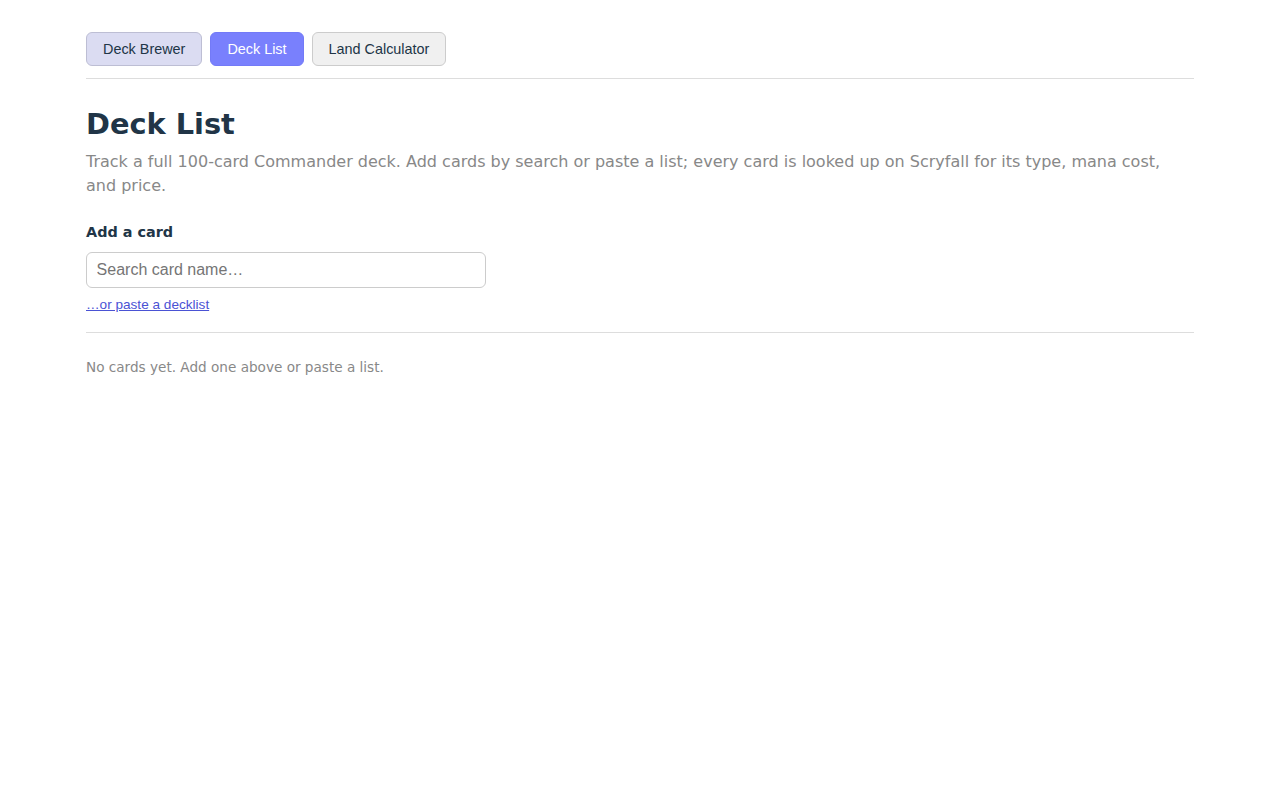
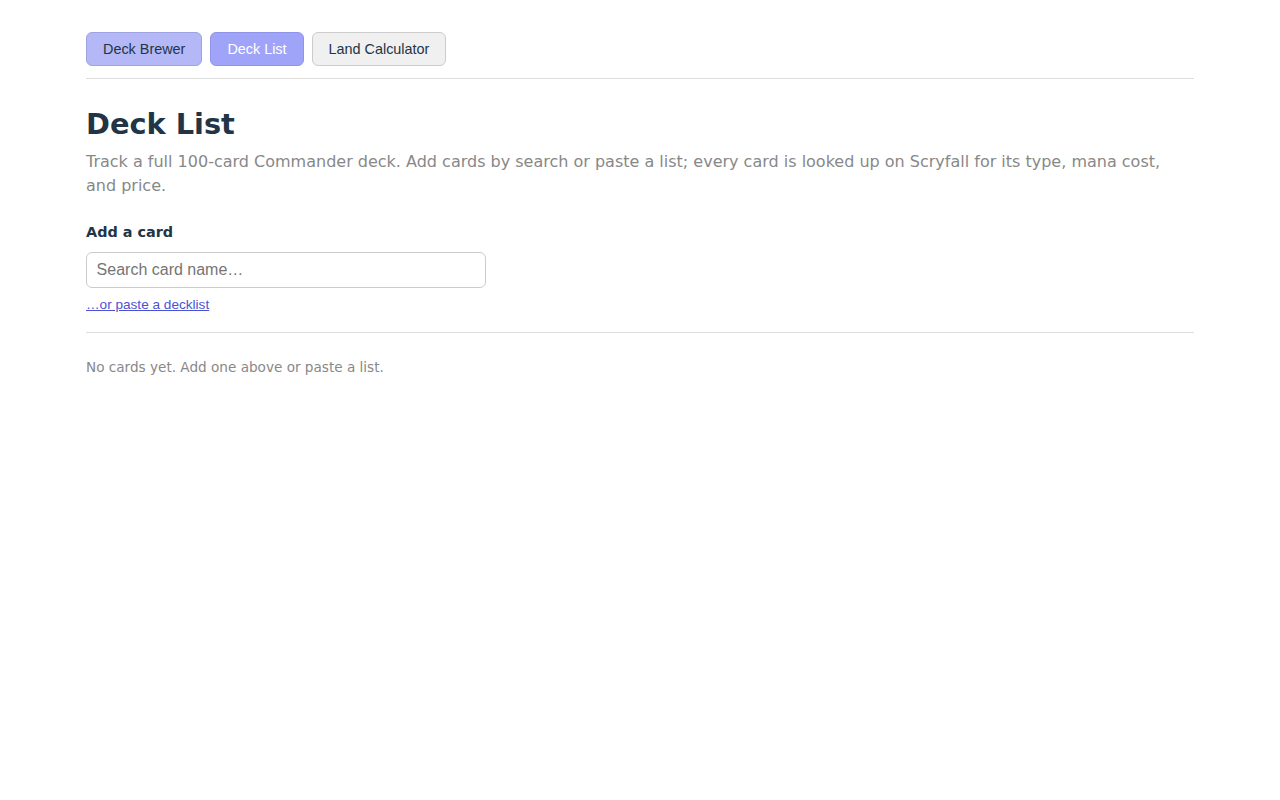
Import Moxfield exports into the Deck List
Make parseDecklist section-aware so a pasted Moxfield export (More →
Export) imports cleanly: it reads "Section (n)" and bare section headers,
flags the card under Commander as the commander, and drops Sideboard,
Maybeboard, Considering, and Tokens sections. parseDecklist now returns
{ name, qty, commander } and importPaste honors the flag (single
commander slot). The paste box explains the Moxfield workflow.

Claude-Session: https://claude.ai/code/session_017gkumSiN3a7D1hGypfP7Wm

Changed region(s): [[0.0625, 0.0312, 0.25, 0.0938]]

diff --git a/src/decklist.test.js b/src/decklist.test.js
@@ -14,9 +14,9 @@ describe("parseDecklist", () => {
       ["1 Sol Ring", "2x Llanowar Elves", "Cultivate"].join("\n")
     );
     expect(out).toEqual([
-      { name: "Sol Ring", qty: 1 },
-      { name: "Llanowar Elves", qty: 2 },
-      { name: "Cultivate", qty: 1 },
+      { name: "Sol Ring", qty: 1, commander: false },
+      { name: "Llanowar Elves", qty: 2, commander: false },
+      { name: "Cultivate", qty: 1, commander: false },
     ]);
   });
 
@@ -24,12 +24,52 @@ describe("parseDecklist", () => {
     const out = parseDecklist(
       ["// Commander", "", "1 Sol Ring (C21) 263", "Creatures (35)"].join("\n")
     );
-    expect(out).toEqual([{ name: "Sol Ring", qty: 1 }]);
+    expect(out).toEqual([{ name: "Sol Ring", qty: 1, commander: false }]);
   });
 
   it("merges duplicate names by summing quantities", () => {
     const out = parseDecklist(["1 Forest", "3 Forest"].join("\n"));
-    expect(out).toEqual([{ name: "Forest", qty: 4 }]);
+    expect(out).toEqual([{ name: "Forest", qty: 4, commander: false }]);
+  });
+
+  it("flags the card under a Moxfield Commander header", () => {
+    const out = parseDecklist(
+      [
+        "Commander (1)",
+        "1 Atraxa, Praetors' Voice (NCC) 5",
+        "",
+        "Creatures (2)",
+        "1 Sol Ring (C21) 263",
+        "1 Llanowar Elves",
+      ].join("\n")
+    );
+    expect(out).toEqual([
+      { name: "Atraxa, Praetors' Voice", qty: 1, commander: true },
+      { name: "Sol Ring", qty: 1, commander: false },
+      { name: "Llanowar Elves", qty: 1, commander: false },
+    ]);
+  });
+
+  it("ignores Sideboard/Maybeboard/Considering sections", () => {
+    const out = parseDecklist(
+      [
+        "1 Sol Ring",
+        "Sideboard (1)",
+        "1 Counterspell",
+        "Maybeboard",
+        "1 Swords to Plowshares",
+        "Considering (1)",
+        "1 Demonic Tutor",
+      ].join("\n")
+    );
+    expect(out).toEqual([{ name: "Sol Ring", qty: 1, commander: false }]);
+  });
+
+  it("treats a bare Commander header as a section, not a card", () => {
+    const out = parseDecklist(["Commander", "1 Kenrith, the Returned King"].join("\n"));
+    expect(out).toEqual([
+      { name: "Kenrith, the Returned King", qty: 1, commander: true },
+    ]);
   });
 });
 

diff --git a/src/decklist.js b/src/decklist.js
@@ -4,23 +4,52 @@ import { cardPriceUsd, cardManaValue, cardTypeLine } from "./scryfall";
 /** A Commander deck is 100 cards including the commander. */
 export const COMMANDER_TARGET = 100;
 
+// Section headers whose cards don't belong in the 100-card deck and are
+// skipped entirely (as Moxfield's text export labels them).
+const SKIP_SECTIONS = new Set([
+  "sideboard",
+  "maybeboard",
+  "maybe",
+  "considering",
+  "tokens",
+]);
+
 /**
- * Parse a pasted decklist into { name, qty } rows.
+ * Parse a pasted decklist into { name, qty, commander } rows.
  *
  * Accepts the common formats:
  *   "1 Sol Ring", "1x Sol Ring", "Sol Ring" (qty defaults to 1),
- * and tolerates trailing set/collector info like "1 Sol Ring (C21) 263"
- * and category headers / blank lines, which are skipped.
+ * and tolerates trailing set/collector info like "1 Sol Ring (C21) 263".
+ *
+ * Understands Moxfield's headered export (More → Export): a line with no
+ * leading quantity that is either a "Section (12)" count or a bare section
+ * keyword is treated as a header. The card under a "Commander" header is
+ * flagged commander: true; cards under Sideboard/Maybeboard/Considering/
+ * Tokens are dropped. Blank lines and `//`/`#` comments are ignored.
  */
 export function parseDecklist(text) {
-  const rows = new Map(); // lowername -> { name, qty }
+  const rows = new Map(); // lowername -> { name, qty, commander }
+  let inCommander = false;
+  let skipping = false;
+
   for (const raw of text.split(/\r?\n/)) {
     const line = raw.trim();
     if (!line) continue;
-    // Skip section headers like "// Sideboard" or a bare "Creatures (35)"
-    // (a name with no quantity whose only parenthetical is a plain count).
     if (line.startsWith("//") || line.startsWith("#")) continue;
-    if (/^[A-Za-z][A-Za-z ]*\(\d+\)$/.test(line)) continue;
+
+    // A section header has no leading quantity and is either a "Name (12)"
+    // count line or a bare, known section keyword.
+    const header = line.match(/^([A-Za-z][A-Za-z ]*?)\s*\(\d+\)$/);
+    const keyword = line.toLowerCase();
+    const bareSection =
+      !/^\d/.test(line) && (keyword === "commander" || SKIP_SECTIONS.has(keyword));
+    if (header || bareSection) {
+      const label = (header ? header[1] : keyword).trim().toLowerCase();
+      inCommander = label.startsWith("commander");
+      skipping = SKIP_SECTIONS.has(label);
+      continue;
+    }
+    if (skipping) continue;
 
     const m = line.match(/^(?:(\d+)\s*[xX]?\s+)?(.+?)$/);
     if (!m) continue;
@@ -35,8 +64,9 @@ export function parseDecklist(text) {
     const existing = rows.get(key);
     if (existing) {
       existing.qty += qty;
+      if (inCommander) existing.commander = true;
     } else {
-      rows.set(key, { name, qty });
+      rows.set(key, { name, qty, commander: inCommander });
     }
   }
   return [...rows.values()];

diff --git a/e2e/decklist.spec.js b/e2e/decklist.spec.js
@@ -57,27 +57,37 @@ test("deck list tab customer journey", async ({ page }) => {
   await expect(page.getByText(/No cards yet/)).toBeVisible();
   await page.screenshot({ path: `${SCREENSHOT_DIR}/decklist-1-empty.png` });
 
-  // Paste-import a small deck, including a card Scryfall can't resolve.
+  // Paste-import a Moxfield export: section headers auto-detect the commander,
+  // the Sideboard is ignored, and one card can't be resolved by Scryfall.
   await page.getByRole("button", { name: /paste a decklist/ }).click();
   await page.getByLabel("Paste decklist").fill(
     [
-      "1 Atraxa, Praetors' Voice",
-      "1 Sol Ring",
+      "Commander (1)",
+      "1 Atraxa, Praetors' Voice (NCC) 5",
+      "",
+      "Creatures (2)",
+      "1 Llanowar Elves",
+      "1 Not A Real Card",
+      "",
+      "Other (5)",
+      "1 Sol Ring (C21) 263",
       "1 Cultivate",
       "1 Counterspell",
-      "1 Llanowar Elves",
       "1 Wrath of God",
       "1 Rhystic Study",
       "8 Forest",
-      "1 Not A Real Card",
+      "",
+      "Sideboard (1)",
+      "1 Demonic Tutor",
     ].join("\n")
   );
   await page.getByRole("button", { name: "Import" }).click();
   await expect(page.getByRole("link", { name: "Rhystic Study" })).toBeVisible({ timeout: 30_000 });
 
-  // Promote the commander; it moves to its own leading group.
-  await page.getByRole("button", { name: "Set Atraxa, Praetors' Voice as commander" }).click();
+  // The commander was detected from the header and leads its own group; the
+  // Sideboard card was dropped.
   await expect(page.getByRole("heading", { name: /Commander/ })).toBeVisible();
+  await expect(page.getByRole("link", { name: "Demonic Tutor" })).toHaveCount(0);
   await expect(page.getByRole("heading", { name: /Lands/ })).toBeVisible();
   await expect(page.getByText(/16 \/ 100 cards/)).toBeVisible();
   await page.evaluate(() => window.scrollTo(0, 0));

diff --git a/src/DeckList.jsx b/src/DeckList.jsx
@@ -139,14 +139,24 @@ function DeckList() {
     if (parsed.length === 0) return;
     setEntries((prev) => {
       const byName = new Map(prev.map((e) => [e.name.toLowerCase(), e]));
-      for (const { name, qty } of parsed) {
+      // A pasted commander wins the single commander slot.
+      const hasCommander = parsed.some((p) => p.commander);
+      for (const { name, qty, commander } of parsed) {
         const key = name.toLowerCase();
         const existing = byName.get(key);
         if (existing) {
           existing.qty += qty;
+          if (commander) existing.commander = true;
         } else {
-          const row = { id: makeId(), name, qty, tag: "", commander: false };
+          const row = { id: makeId(), name, qty, tag: "", commander: !!commander };
           byName.set(key, row);
+        }
+      }
+      // Ensure at most one commander when the paste designated one.
+      if (hasCommander) {
+        const flagged = parsed.find((p) => p.commander).name.toLowerCase();
+        for (const e of byName.values()) {
+          if (e.name.toLowerCase() !== flagged) e.commander = false;
         }
       }
       return [...byName.values()];
@@ -217,9 +227,17 @@ function DeckList() {
         </button>
         {pasteOpen && (
           <div className="paste-box">
+            <p className="paste-hint">
+              Paste a plain list or a Moxfield export (deck page → More →
+              Export). Section headers are read automatically — the card under
+              “Commander” is set as your commander, and Sideboard / Maybeboard /
+              Considering are ignored.
+            </p>
             <textarea
               aria-label="Paste decklist"
-              placeholder={"1 Sol Ring\n1 Cultivate\n1 Llanowar Elves"}
+              placeholder={
+                "Commander (1)\n1 Atraxa, Praetors' Voice\n\nCreatures (2)\n1 Sol Ring\n1 Llanowar Elves"
+              }
               value={pasteText}
               onChange={(e) => setPasteText(e.target.value)}
               rows={6}

diff --git a/src/App.css b/src/App.css
@@ -636,6 +636,13 @@ h3 {
   max-width: 400px;
 }
 
+.paste-hint {
+  margin: 0;
+  font-size: 0.82rem;
+  line-height: 1.4;
+  color: #999;
+}
+
 .paste-box textarea {
   width: 100%;
   padding: 0.5rem 0.6rem;